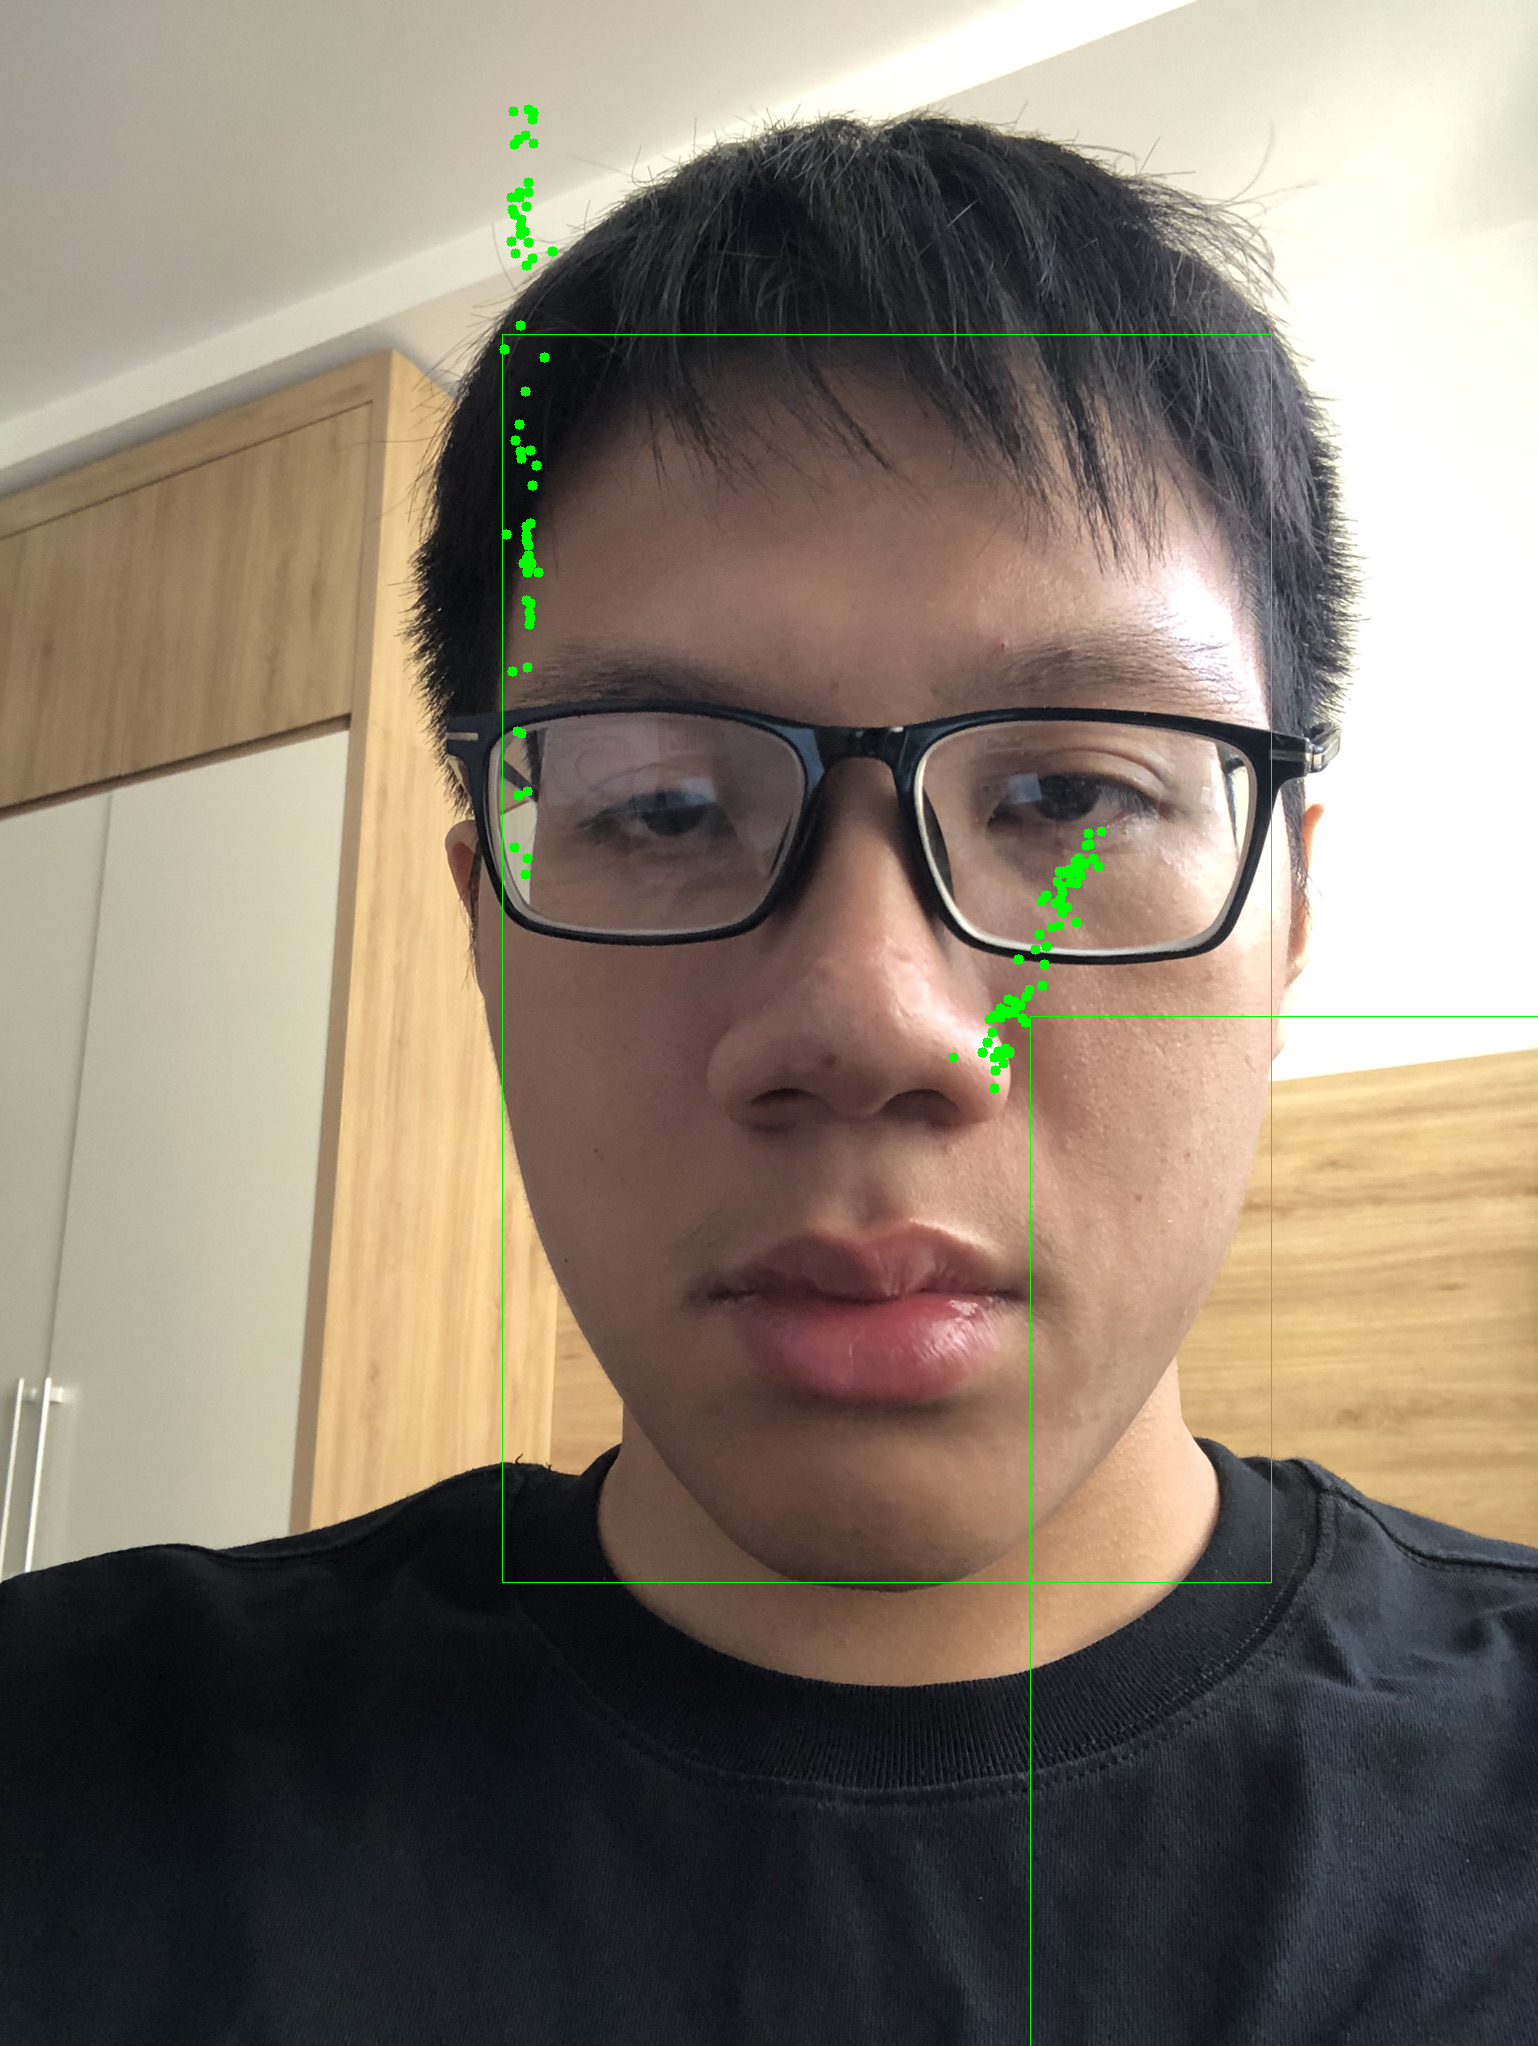
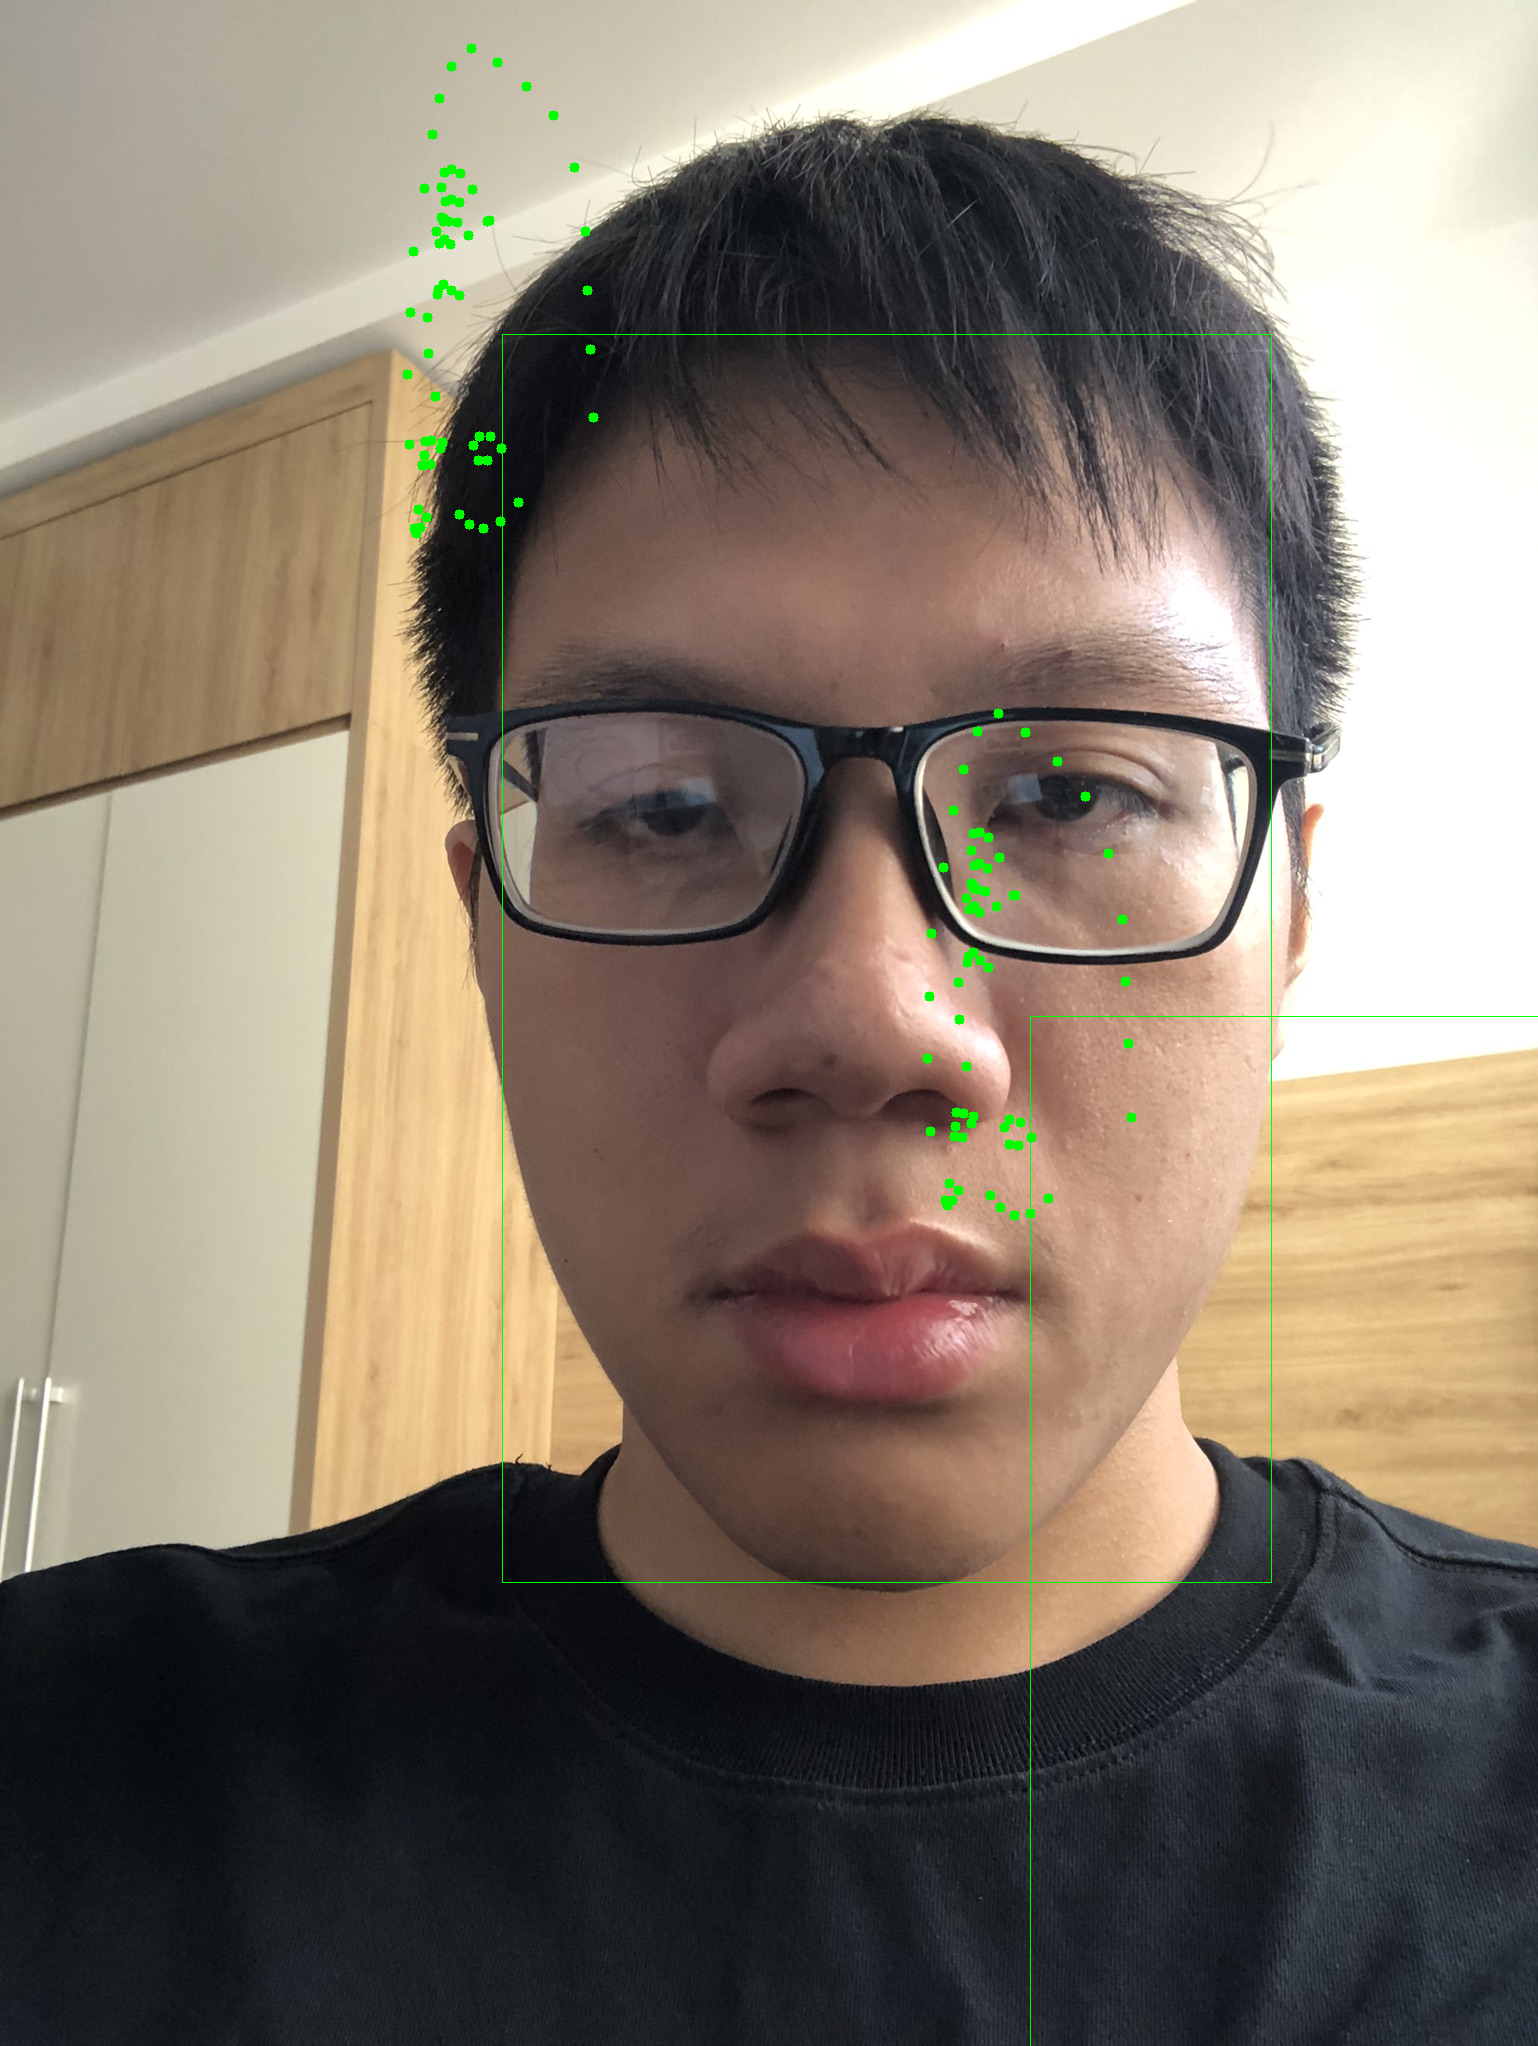
nah

diff --git a/notebooks/detect.py b/notebooks/detect.py
@@ -16,7 +16,7 @@ import cv2
 
 def detect(img_path: str, cfg: DictConfig) -> None:
     net = hydra.utils.instantiate(cfg.net)
-    model = DLIBLitModule.load_from_checkpoint(checkpoint_path='logs/train/runs/2023-12-08_13-06-32/checkpoints/last.ckpt', net=net)
+    model = DLIBLitModule.load_from_checkpoint(checkpoint_path='logs/train/runs/2024-02-22_14-14-53/checkpoints/last.ckpt', net=net)
 
     transform = A.Compose([A.CenterCrop(224, 224),
                             A.Normalize(mean=[0.485, 0.456, 0.406], std=[0.229, 0.224, 0.225]),
